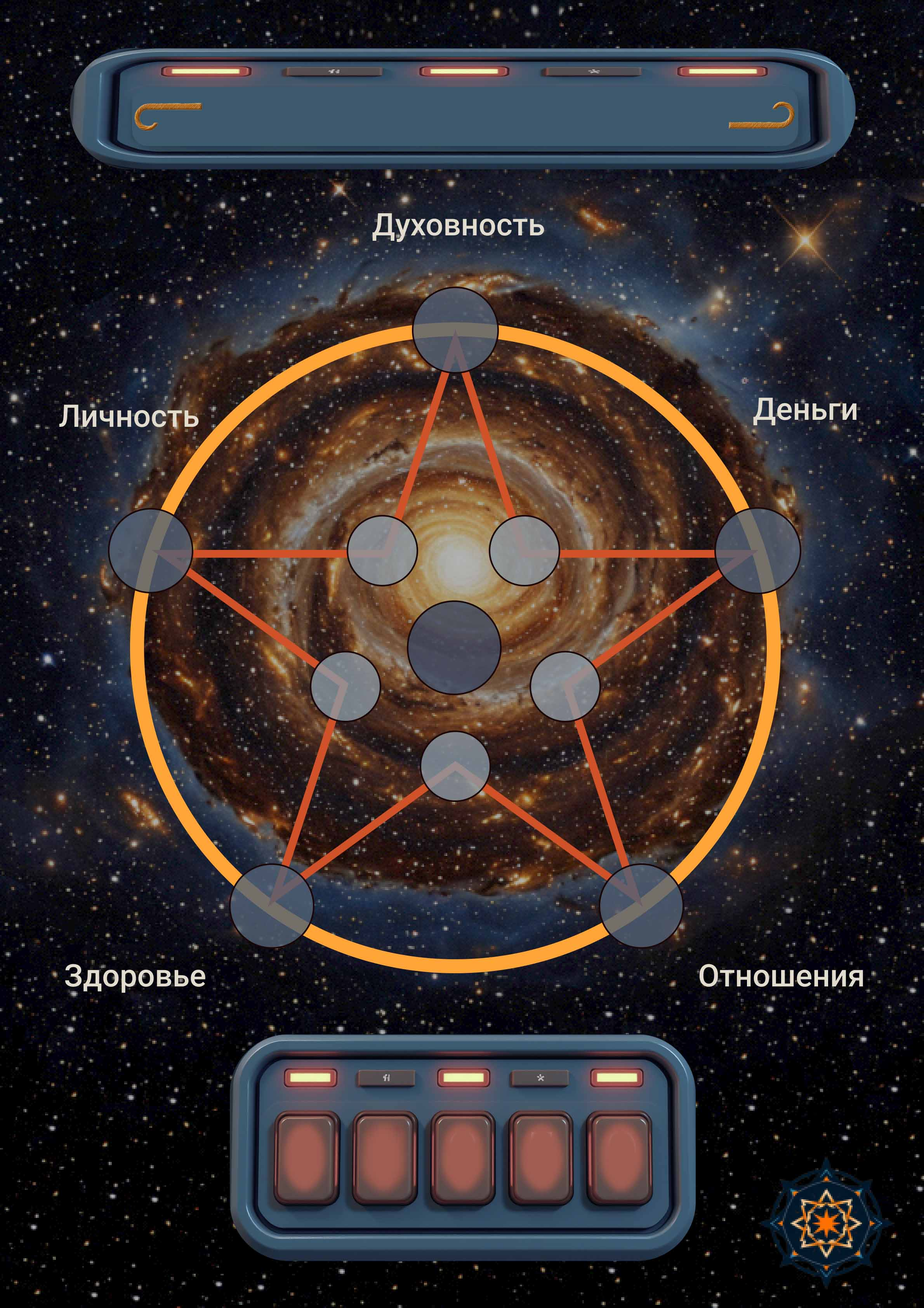
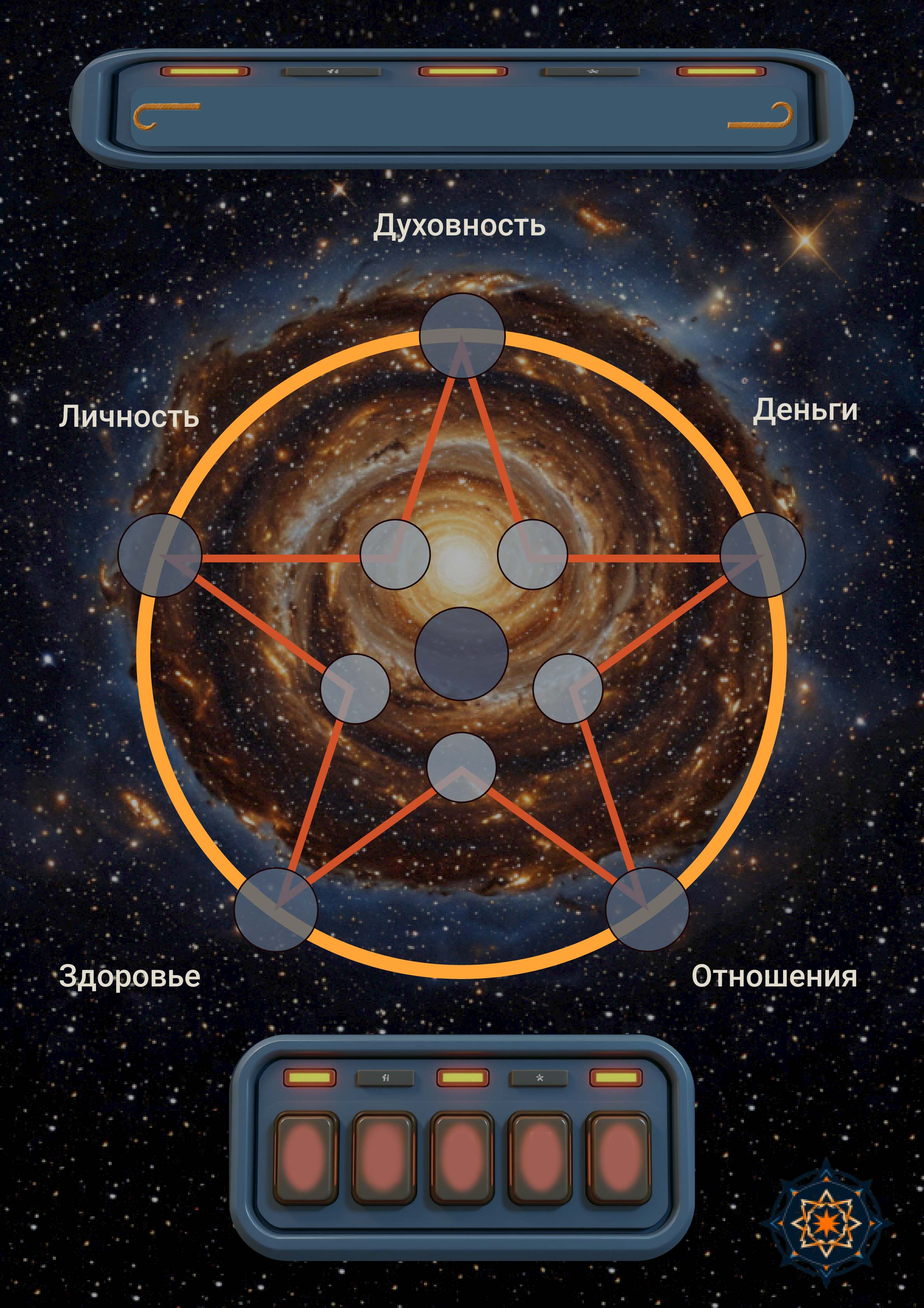
0.2 copletely working star

diff --git a/reports/pdf_utility.py b/reports/pdf_utility.py
@@ -27,38 +27,30 @@ class CustomPDF(FPDF):
         self.image(page_data.image_path, x=0, y=0, w=self.w)
 
         for text_element in page_data.info_positions:
-            # Если font указан, используем его; иначе используем стандартный шрифт
-            if text_element.font:
-                self.set_font(
-                    str(text_element.font["name"]),
-                    text_element.font.get("style", ''),  # type: ignore
-                    int(text_element.font["size"])
-                )
-            else:
-                # Установка стандартного шрифта
-                self.set_font("roboto_regular", "", 12)
-
-            # Если color указан, используем его; иначе используем черный цвет по умолчанию
-            if text_element.color:
-                self.set_text_color(*text_element.color)
-            else:
-                # Установка стандартного черного цвета
-                self.set_text_color(0, 0, 0)
+            # Устанавливаем шрифт
+            self.set_font(
+                str(text_element.font["name"]),  # type: ignore
+                text_element.font.get("style"),  # type: ignore
+                int(text_element.font["size"])  # type: ignore
+            )
+            # Устанавливаем цвет
+            self.set_text_color(*text_element.color)
 
             # Проверяем, что position и text не являются None
             if text_element.position and text_element.text:
                 x, y = text_element.position
-                self.set_xy(x, y)
                 # Рассчитываем ширину текста
                 text_width = self.get_string_width(text_element.text)
+                text_height = self.font_size
 
-            # Выводим текст с динамической шириной ячейки и левым выравниванием
-                self.cell(
-                    w=text_width,  # Ширина ячейки равна ширине текста
-                    h=self.font_size,  # Высота строки равна размеру шрифта
-                    txt=text_element.text,  # type: ignore
-                    align="L"  # Всегда левое выравнивание
-                )
+                self._add_centered_text(
+                    x=x, y=y,
+                    text=text_element.text,
+                    text_width=text_width, text_height=text_height)
+
+            else:
+                raise ValueError(
+                    'Отсутствует текст или координаты для вывода данных')
 
     def create_text_pages(self, page_data: TextPageData):
 
@@ -110,7 +102,7 @@ class CustomPDF(FPDF):
             )
 
             # Уменьшаем интервал между строками
-            line_height = self.font_size * 1.25  # Высота строки равна 1.2 от размера шрифта
+            line_height = self.font_size * 1.5  # Высота строки равна 1.2 от размера шрифта
 
             # Обработка информации внутри раздела
             for info_item in section.info:
@@ -132,3 +124,28 @@ class CustomPDF(FPDF):
         # Прямоугольник со страницей, заполненный цветом
         self.rect(0, 0, self.w, self.h, 'F')
         self.set_y(10)  # Начинаем с верхней части страницы
+
+    def _add_centered_text(self,
+                           x: float, y: float,
+                           text: str,
+                           text_width: int, text_height: int):
+        """
+        Выводит текст точно по центру относительно координаты x.
+
+        Args:
+            x (float): Центральная координата X.
+            y (float): Координата Y, где должен начаться текст.
+            text (str): Текст для вывода.
+            text_width (int): Ширина текста.
+
+        """
+        # Корректируем координату x для центрирования текста
+        centered_x = x - (text_width / 2)
+        centered_y = y - (text_height / 2)
+
+        # Устанавливаем позицию курсора
+        self.set_xy(centered_x, centered_y)
+
+        # Выводим текст
+        self.cell(w=text_width, h=self.font_size, txt=text, align="C")
+        self.set_xy(self.w, self.h)

diff --git a/report_storage/configurations/star_position.py b/report_storage/configurations/star_position.py
@@ -11,23 +11,23 @@ def get_star_position() -> Dict:
     """
     scale = SCALE_PX_MM
 
-    coordinates_px = {'header_text': (850, 253),
-                      'personality': (350, 1369),
-                      'spirituality': (1132, 795),
-                      'money': (1916, 1367),
-                      'relationship': (1610, 2283),
-                      'health': (660, 2283),
-                      'pat_male_line_err': (955, 1383),
-                      'mat_male_line_err': (1325, 1383),
-                      'pat_female_line_err': (1430, 1735),
-                      'doom_err': (1144, 1945),
-                      'mat_female_line_err': (858, 1735),
-                      'mission': (1125, 1615),
-                      'foot_personality': (734, 2925),
-                      'foot_spirituality': (941, 2925),
-                      'foot_money': (1146, 2925),
-                      'foot_relationship': (1345, 2925),
-                      'foot_health': (1548, 2925)}
+    coordinates_px = {'header_text': (1190, 296),
+                      'personality': (412, 1430),
+                      'spirituality': (1190, 864),
+                      'money': (1965, 1430),
+                      'relationship': (1669, 2344),
+                      'health': (701, 2344),
+                      'pat_male_line_err': (1023, 1430),
+                      'mat_male_line_err': (1370, 1430),
+                      'pat_female_line_err': (1464, 1774),
+                      'doom_err': (1190, 1975),
+                      'mat_female_line_err': (916, 1774),
+                      'mission': (1190, 1684),
+                      'foot_personality': (781, 2993),
+                      'foot_spirituality': (985, 2993),
+                      'foot_money': (1190, 2993),
+                      'foot_relationship': (1395, 2993),
+                      'foot_health': (1599, 2993)}
 
     star_positions_mm = {key: (value[0] * scale, value[1] * scale)
                          for key, value in coordinates_px.items()}

diff --git a/text_storage/star_money_dict.py b/text_storage/star_money_dict.py
@@ -251,13 +251,7 @@ money_dict = {
         ],
 
         'costs': [
-            "- Транжирство. Когда Вы не считаете деньги, не управляете ими, у Вас нет «подушки безопасности» — это всё забирает у Вас энергию, соответственно и деньги.",
-            "- Халатность, инфантилизм, безответственность в работе.",
-            "- Не системность в работе: там чуть-чуть поработал, здесь какие-то денежки подзаработал и т. п.",
-            "- Работа в жёстком графике, в строгих рамках.",
-            "Вы должны быть свободны, но при этом заниматься одним делом.",
-            "- Любые формы зависимости, в том числе и шопоголизм и азартные увлечения.",
-            "- Начинание разных дел одновременно, которые Вы не доводите до конца.",
+            "Курсы актерского мастерства и ораторского искусства, книги или курсы про тайм-менеджмент. Посещайте больше развлекательных мероприятий, где Вы будете вдохновляться, черпать энергию и генерить свои собственные идеи.",
         ]
     }
 }

diff --git a/business_logic/arcanes_classes.py b/business_logic/arcanes_classes.py
@@ -43,6 +43,26 @@ class Star:
             self.relationship
         )
 
+        self.foot_personality: int = digital_root(
+            client_info.birthday.day, arcanes_number=9)
+        self.foot_spirituality: int = digital_root(
+            client_info.birthday.month, arcanes_number=9)
+        self.foot_money: int = digital_root(
+            client_info.birthday.year, arcanes_number=9)
+
+        self.foot_relationship: int = digital_root(
+            self.personality +
+            self.spirituality +
+            self.money, arcanes_number=9
+        )
+
+        self.foot_health: int = digital_root(
+            self.personality +
+            self.spirituality +
+            self.money +
+            self.relationship, arcanes_number=9
+        )
+
         # Рассчет переменной миссия
         self.mission: int = digital_root(
             self.personality +

diff --git a/utils/math_utils.py b/utils/math_utils.py
@@ -1,10 +1,16 @@
-def digital_root(num: int) -> int:
-    """
-    Рассчитывает однозначное число из суммы цифр числа num.
+def digital_root(num: int, arcanes_number: int = 22) -> int:
+    """Рассчитывает числовой корень из суммы цифр входящего числа.
+
+    Args:
+        num (int): исходное число
+        arcanes_number (int, optional): Максимальное количество арканов. Defaults to 22.
+
+    Returns:
+        int: числовой корень
     """
     number = num
 
-    while number > 22:
+    while number > arcanes_number:
         number = sum_digits(number)
 
     return number

diff --git a/data_requests/data_for_images.py b/data_requests/data_for_images.py
@@ -29,11 +29,11 @@ def get_star_content(star: Star) -> Dict:
         "doom_err": str(star.doom_err),
         "mat_female_line_err": str(star.mat_female_line_err),
         "mission": str(star.mission),
-        "foot_personality": str(star.personality),
-        "foot_spirituality": str(star.spirituality),
-        "foot_money": str(star.money),
-        "foot_relationship": str(star.relationship),
-        "foot_health": str(star.health),
+        "foot_personality": str(star.foot_personality),
+        "foot_spirituality": str(star.foot_spirituality),
+        "foot_money": str(star.foot_money),
+        "foot_relationship": str(star.foot_relationship),
+        "foot_health": str(star.foot_health),
     }
 
 
